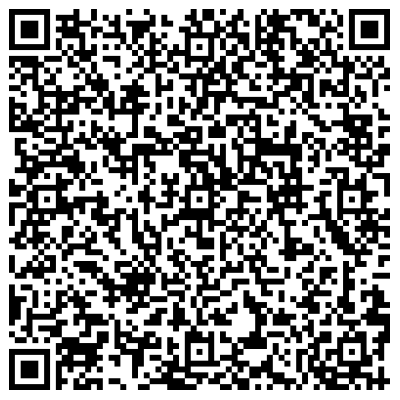
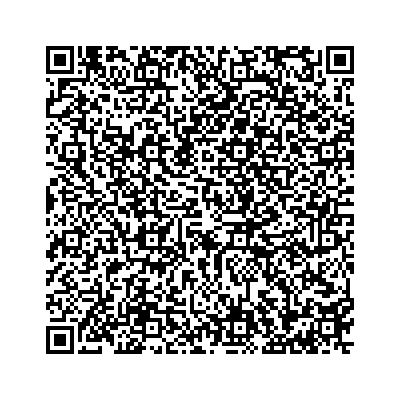
Update contact phone numbers and regenerate contact QR codes

diff --git a/nextjs-app/lib/contact-info.ts b/nextjs-app/lib/contact-info.ts
@@ -1,7 +1,7 @@
 export const contactInfo = {
   email: "irispolymerecom@hotmail.com",
-  phones: ["+213 560 09 00 18", "+213 560 09 00 16"],
-  whatsappNumber: "213560090018", // digits only, international format, no leading +
+  phones: ["+213 770 71 81 19", "+213 770 71 81 48", "+213 770 71 50 88", "+213 560 09 00 19"],
+  whatsappNumber: "213770718119", // digits only, international format, no leading +
   website: "www.irispolymere.com",
   // Not localized — it's the same physical location regardless of UI language.
   address: "Soumaa – Blida",
